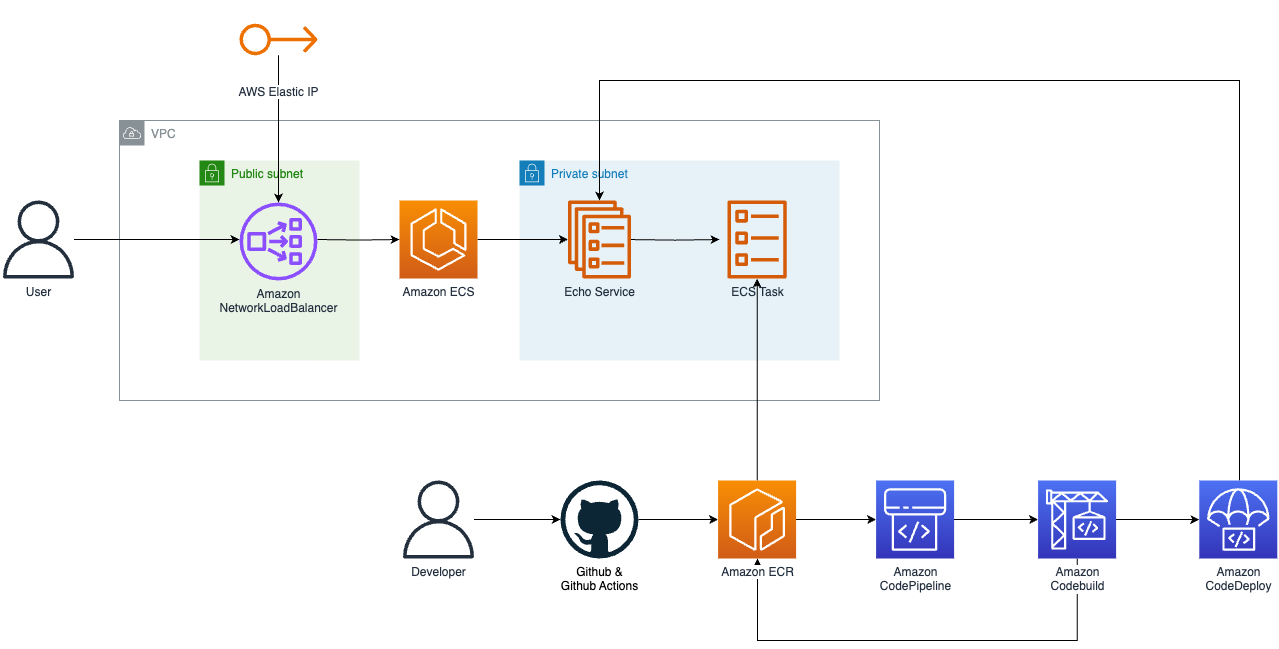
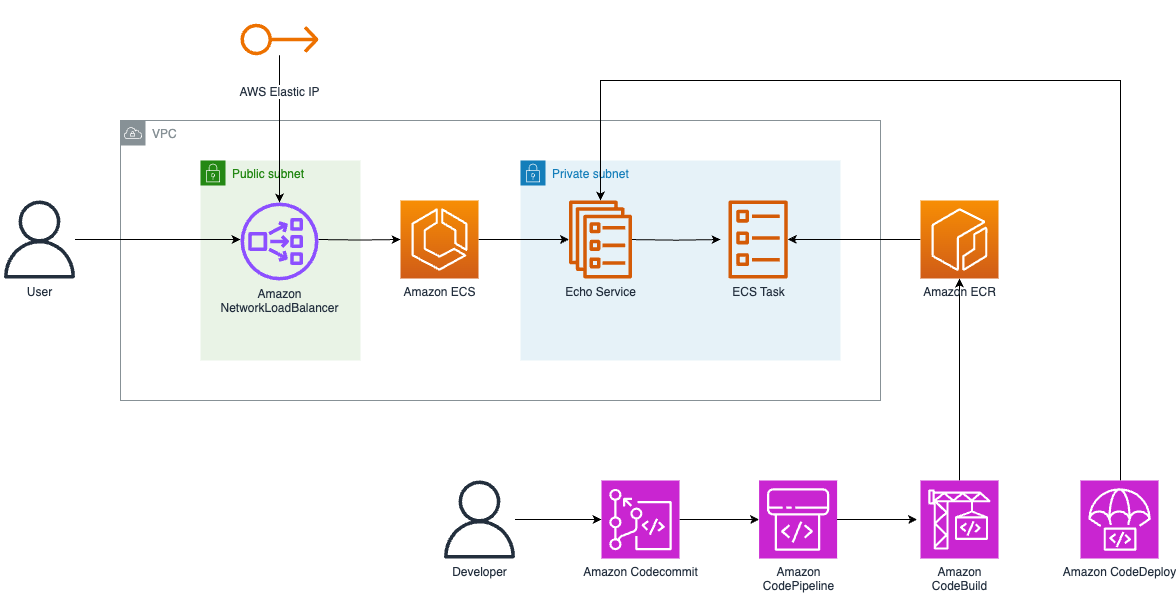
update trigger pipeline by codecommit

diff --git a/infra/lib/stacks/nested/deploy-pipeline-stack.ts b/infra/lib/stacks/nested/deploy-pipeline-stack.ts
@@ -4,13 +4,14 @@ import * as iam from 'aws-cdk-lib/aws-iam';
 import * as codepipeline from 'aws-cdk-lib/aws-codepipeline';
 import * as cpactions from 'aws-cdk-lib/aws-codepipeline-actions';
 import * as codebuild from 'aws-cdk-lib/aws-codebuild';
-import * as ecr from 'aws-cdk-lib/aws-ecr';
+import * as codecommit from 'aws-cdk-lib/aws-codecommit';
 import * as ecs from 'aws-cdk-lib/aws-ecs';
 
 interface IProps extends NestedStackProps {
   fargateService: ecs.IBaseService;
   serviceName: string;
   ecrRepositoryName: string;
+  codeRepositoryName: string;
 }
 
 export class DeployPipeline extends NestedStack {
@@ -31,18 +32,18 @@ export class DeployPipeline extends NestedStack {
     );
 
     // source stage
-    const repository = ecr.Repository.fromRepositoryName(
+    const repository = codecommit.Repository.fromRepositoryName(
       this,
-      `EcrRepository`,
-      props.ecrRepositoryName
+      `CodeRepository`,
+      props.codeRepositoryName
     );
     const checkoutStage = pipeline.addStage({ stageName: 'Source' });
     const sourceOutput = codepipeline.Artifact.artifact('source');
     checkoutStage.addAction(
-      new cpactions.EcrSourceAction({
+      new cpactions.CodeCommitSourceAction({
         output: sourceOutput,
-        imageTag: 'latest',
-        actionName: 'ecrSource',
+        branch: 'main',
+        actionName: 'checkoutSource',
         repository,
       })
     );
@@ -95,10 +96,6 @@ export class DeployPipeline extends NestedStack {
       managedPolicyArn:
         'arn:aws:iam::aws:policy/AmazonEC2ContainerRegistryPowerUser',
     });
-    role.addManagedPolicy({
-      managedPolicyArn:
-        'arn:aws:iam::aws:policy/AmazonEC2ContainerRegistryReadOnly',
-    });
     return role;
   }
 
@@ -109,9 +106,8 @@ export class DeployPipeline extends NestedStack {
       Stack.of(this).region
     }.amazonaws.com/${props.ecrRepositoryName}`;
     const buildCommands = [
-      'echo "pull latest image"',
-      `docker pull ${repositoryUri}:latest`,
-      'echo "tag latest to $IMAGE_TAG"',
+      'echo Build Dockerfile ... with tag $IMAGE_TAG',
+      `docker build -t ${repositoryUri}:latest .`,
       `docker tag ${repositoryUri}:latest ${repositoryUri}:$IMAGE_TAG`,
     ];
 
@@ -128,13 +124,16 @@ export class DeployPipeline extends NestedStack {
         phases: {
           install: {
             'runtime-versions': {
-              golang: '1.18',
+              golang: '1.21',
             },
           },
           pre_build: {
             commands: [
+              // move to app folder
+              'cd app',
               'echo set IMAGE_TAG env',
-              'IMAGE_TAG=$CODEBUILD_BUILD_NUMBER',
+              'COMMIT_HASH=$(echo $CODEBUILD_RESOLVED_SOURCE_VERSION | cut -c 1-7)',
+              'IMAGE_TAG=${COMMIT_HASH:=latest}',
               'echo Login to ECR ...',
               `aws ecr get-login-password --region $REGION | docker login --username AWS --password-stdin "$(aws sts get-caller-identity --query Account --output text).dkr.ecr.$REGION.amazonaws.com"`,
             ],
@@ -144,6 +143,7 @@ export class DeployPipeline extends NestedStack {
             commands: [
               'echo Build completed on `date`',
               'echo Pushing the Docker images...',
+              `docker push ${repositoryUri}:latest`,
               `docker push ${repositoryUri}:$IMAGE_TAG`,
               'echo Writing imagedefinitions.json ...',
               `printf '[{"name":"${props.serviceName}","imageUri":"${repositoryUri}:%s"}]' $IMAGE_TAG > imagedefinitions.json`,
@@ -159,7 +159,7 @@ export class DeployPipeline extends NestedStack {
       role,
       environment: {
         privileged: true,
-        buildImage: codebuild.LinuxBuildImage.STANDARD_6_0,
+        buildImage: codebuild.LinuxBuildImage.STANDARD_7_0,
       },
     });
 

diff --git a/infra/lib/stacks/services/echo-service.ts b/infra/lib/stacks/services/echo-service.ts
@@ -1,4 +1,4 @@
-import { Stack, StackProps, Duration } from 'aws-cdk-lib';
+import { Stack, StackProps } from 'aws-cdk-lib';
 import { Construct } from 'constructs';
 import * as ec2 from 'aws-cdk-lib/aws-ec2';
 import * as ecr from 'aws-cdk-lib/aws-ecr';
@@ -18,6 +18,7 @@ interface IProps extends StackProps {
   readonly serviceName: string;
   readonly servicePort: number;
   readonly ecrRepositoryName: string;
+  readonly codeRepositoryName: string;
 }
 
 export class EchoServiceStack extends Stack {
@@ -34,6 +35,7 @@ export class EchoServiceStack extends Stack {
       fargateService,
       serviceName: props.serviceName,
       ecrRepositoryName: props.ecrRepositoryName,
+      codeRepositoryName: props.codeRepositoryName,
     });
   }
 

diff --git a/infra/config/loader.ts b/infra/config/loader.ts
@@ -7,6 +7,7 @@ interface IService {
   name: string;
   port: number;
   ecrRepositoryName: string;
+  codeRepositoryName: string;
 }
 
 interface IConfig {
@@ -52,6 +53,7 @@ const schema = joi
         name: joi.string(),
         port: joi.number().port(),
         ecrRepositoryName: joi.string(),
+        codeRepositoryName: joi.string(),
       }),
     }),
     user: joi.object({

diff --git a/infra/bin/infra.ts b/infra/bin/infra.ts
@@ -41,6 +41,7 @@ const echoService = new EchoServiceStack(
     serviceName: Config.service.echo.name,
     servicePort: Config.service.echo.port,
     ecrRepositoryName: Config.service.echo.ecrRepositoryName,
+    codeRepositoryName: Config.service.echo.codeRepositoryName,
   }
 );
 echoService.addDependency(vpcStack);

diff --git a/README.md b/README.md
@@ -1,6 +1,6 @@
 # ECS ECR CI/CD Example
 
-CI/CD pipeline triggering by ECR repo changes.
+CI/CD pipeline triggering by Codecommit repo changes.
 
 ![Architecture](/docs/architecture.png)
 
@@ -36,18 +36,39 @@ install taskfile cli
 
 ```bash
 $ npm i -g @go-task/cli
+```
+
+## Setup repositories for services
+
+### Create repositories
+
+**run below in [app](/app) dir,**
+
+```bash
+$ cd ../app
 $ task --list-all
 ```
 
-## Setup ECR repositories for services
-
-### Create repositories
+create ECR and Codecommit Repository
 
 ```bash
 $ task create-repo -- --profile demo
 ```
 
-### Push initial images
+### Push code to codecommit
+
+change default repository name, `http-echo` if necessary. if you do, you should modify following variables also,
+
+- [.toml](/infra/config/dev.toml) config in [infra](/infra)
+- Repositories settings at [Taskfile](/app/Taskfile.yml) in [app](/app).
+
+```bash
+$ cd ..
+$ git remote add codecommit codecommit::ap-northeast-2://demo@http-echo
+$ git push codecommit
+```
+
+### Push initial image to ECR
 
 ```bash
 $ task push-echo -- --profile demo
